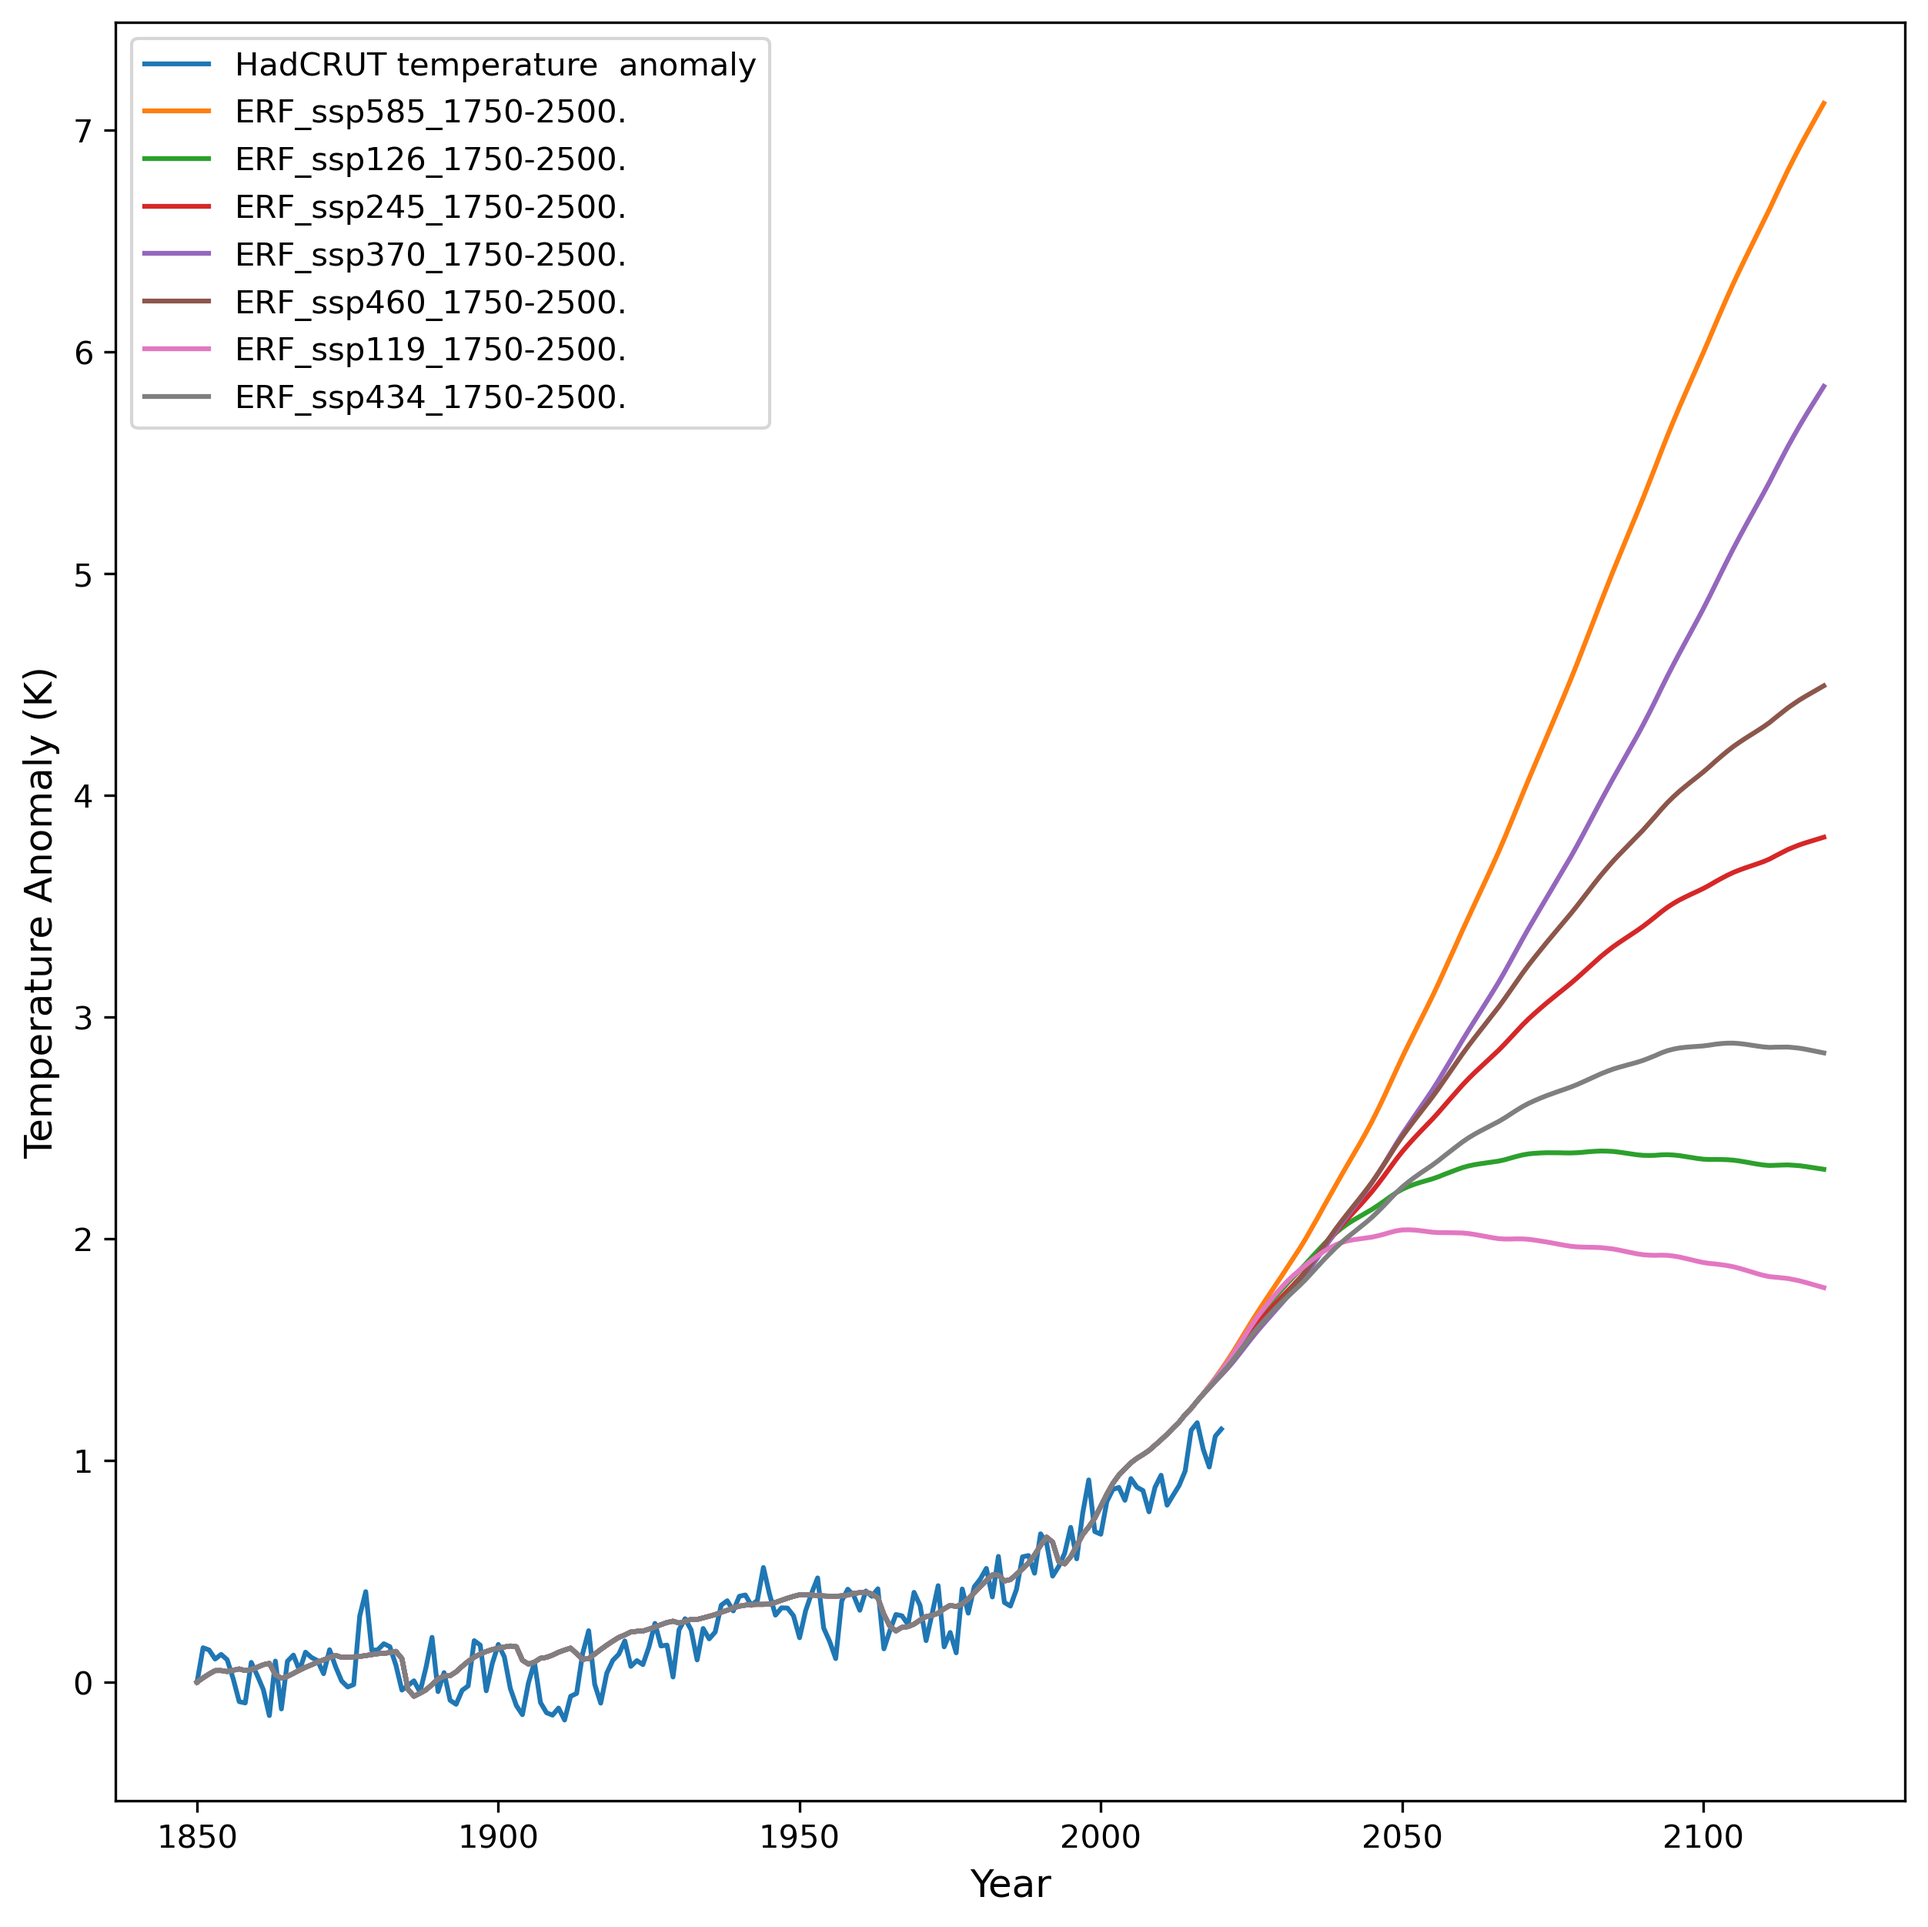
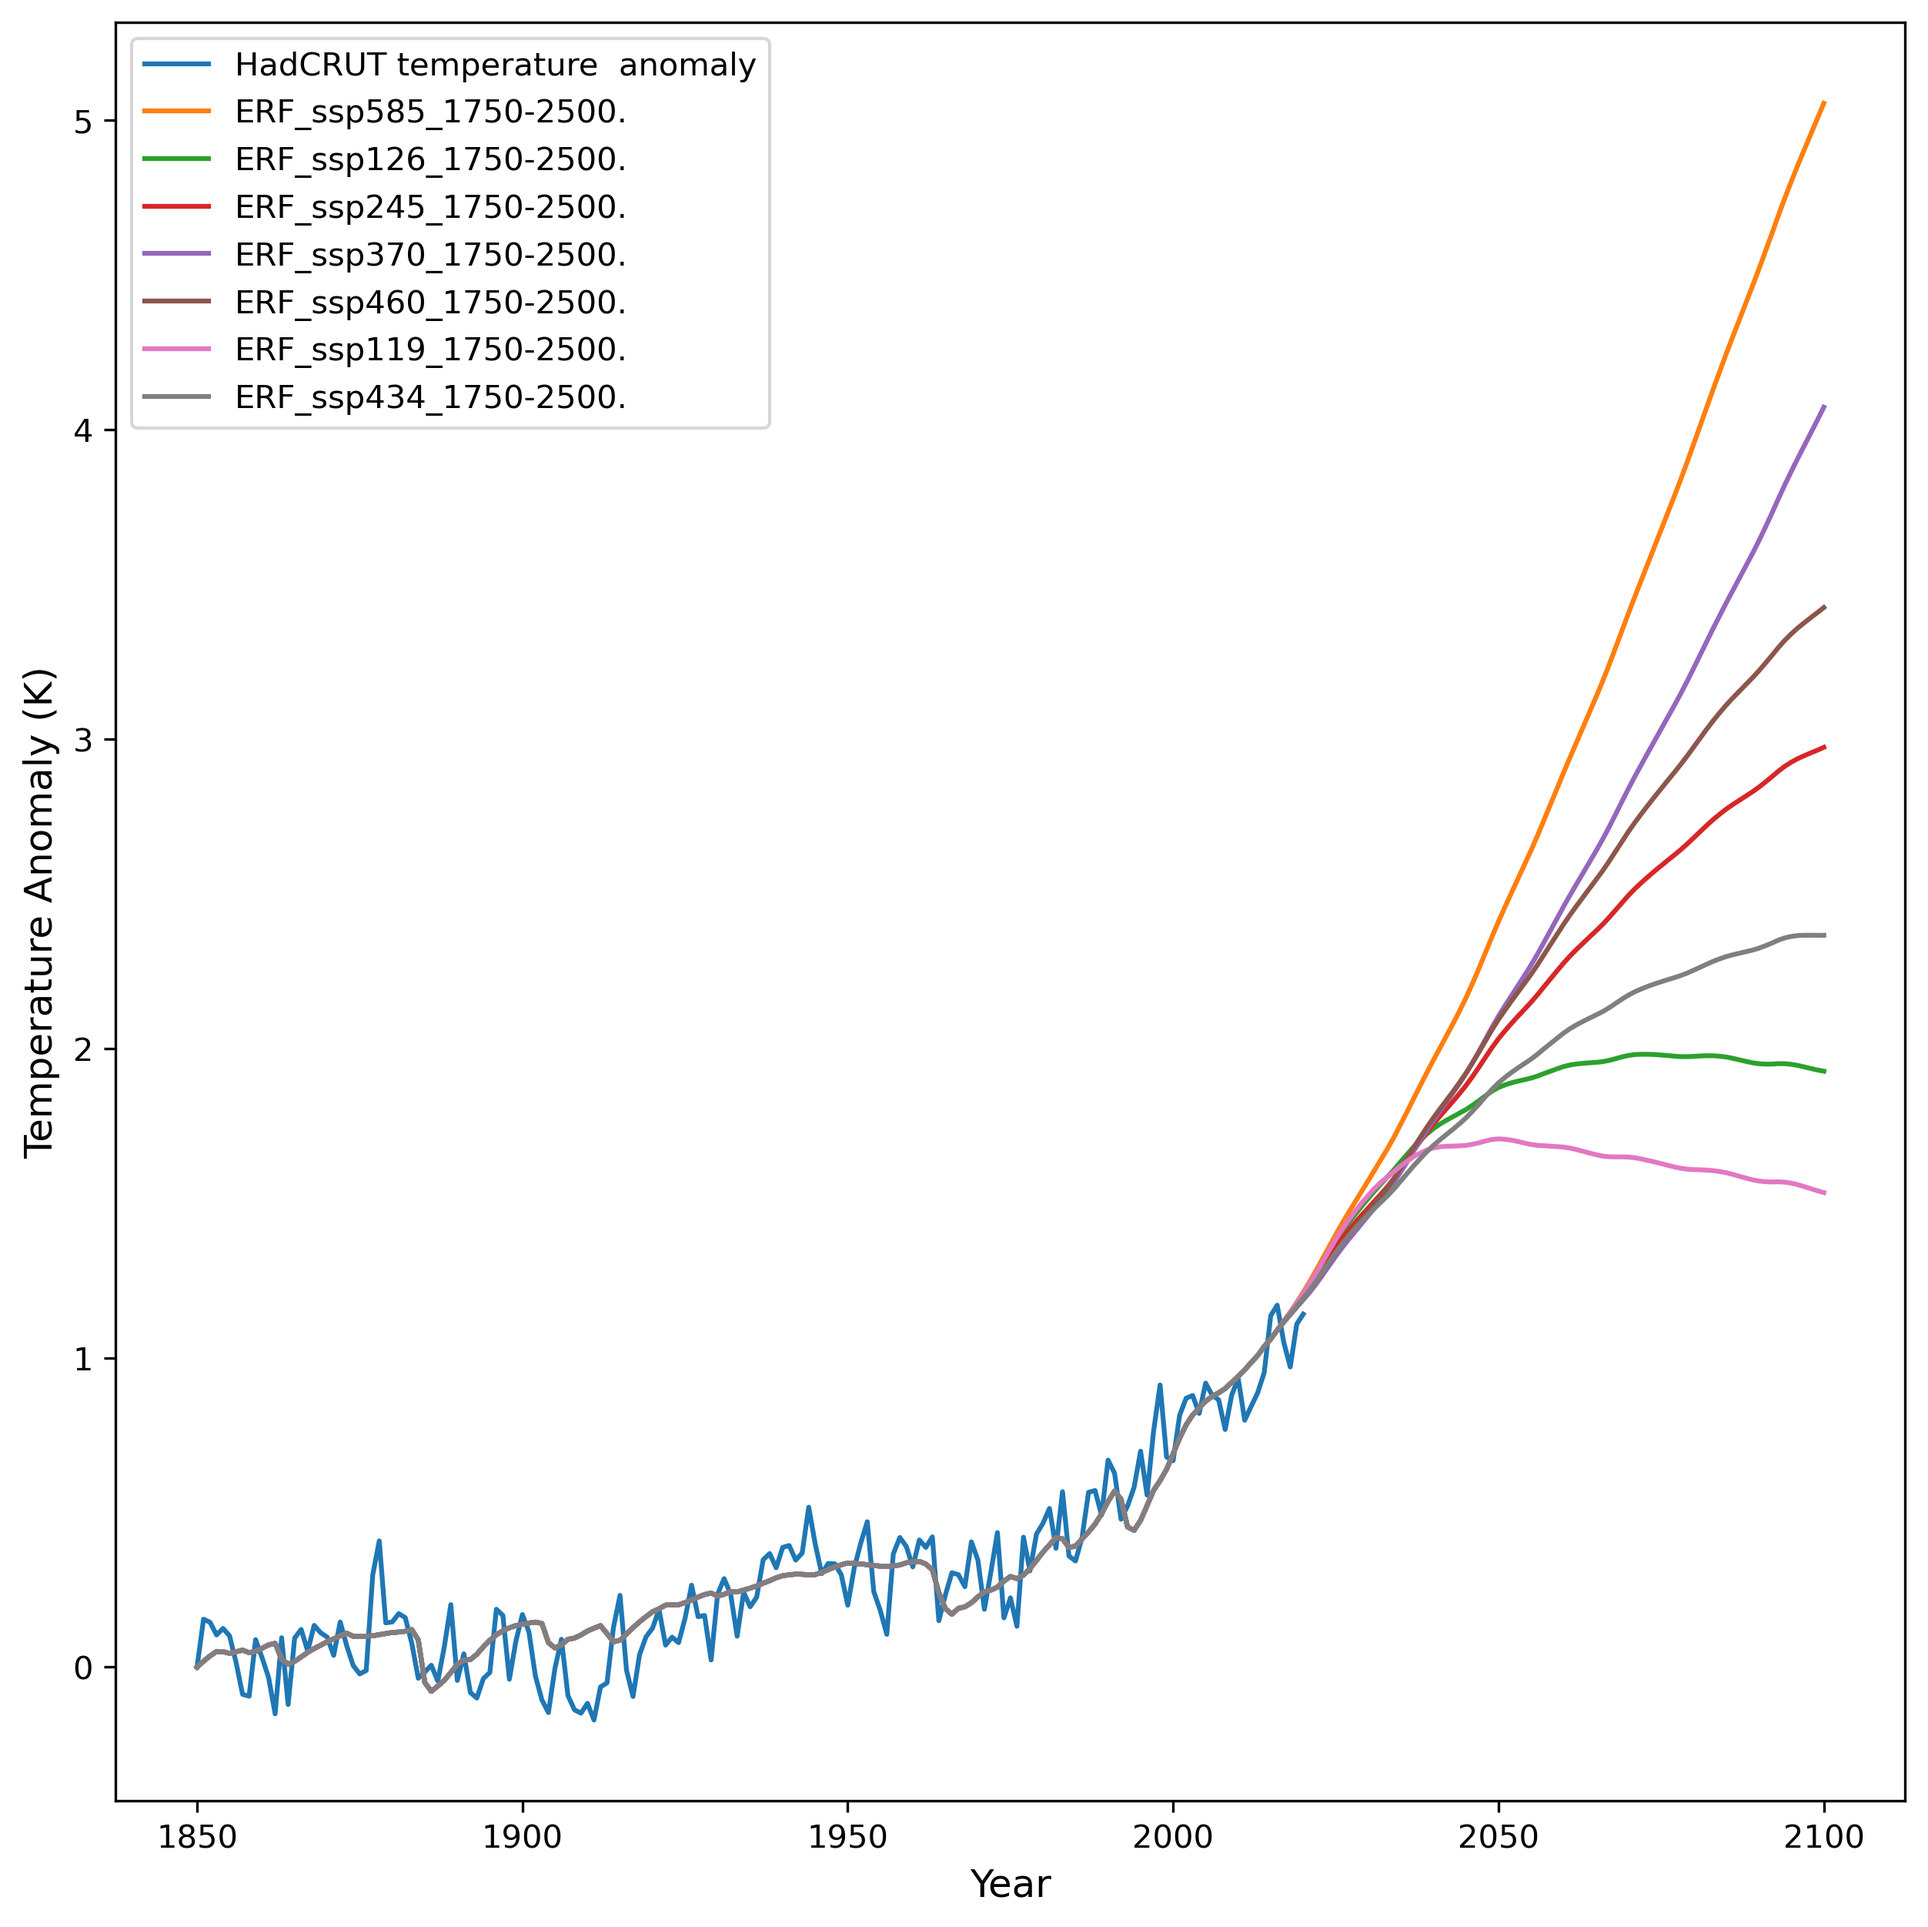
add opt alpha

diff --git a/experiments.py b/experiments.py
@@ -40,14 +40,14 @@ def load_forcing_data(filename):
     ERF_data = pd.read_csv(filename)
     ERF_data = ERF_data.set_index('year')
     ERF = np.array(ERF_data.loc[1850:2020]['total']) * FORCING_SENSITIVITY
-    ERF_fut = np.array(ERF_data.loc[1850:2120]['total'] * FORCING_SENSITIVITY)
+    ERF_fut = np.array(ERF_data.loc[1850:2100]['total'] * FORCING_SENSITIVITY)
     return ERF, ERF_fut
 
 def main():
     # array for time, in years and seconds
     t = np.array(range(0,171), dtype='int64')
     years = t + 1850
-    t_fut = np.array(range(0,271), dtype='int64')
+    t_fut = np.array(range(0,251), dtype='int64')
     years_fut = t_fut + 1850
     
 
@@ -61,6 +61,8 @@ def main():
     model_data_used = load_data(data_path)
     temp_anom = calc_anomaly(model_data_used, num_years=171)
     
+    opt_alpha_val = model.opt_alpha(temp_anom)
+
     ## initialise_plot
     fig, ax = plt.subplots(1, figsize=(10,10))
     fig, ax = plot_model(years, temp_anom, label='HadCRUT temperature  anomaly', fig=fig, ax=ax)
@@ -69,8 +71,7 @@ def main():
     for scen_file in os.listdir(path_to_ssp_forcings):
         forcing_scenario_path = os.path.join(path_to_ssp_forcings, scen_file)
         ERF, ERF_fut = load_forcing_data(forcing_scenario_path)
-        model.upper_ocean_temp(alpha=1, F=ERF_fut)
-        projection = model.upper_ocean_temp(alpha=1, F=ERF_fut)
+        projection = model.upper_ocean_temp(t=len(ERF_fut), alpha=opt_alpha_val, F=ERF_fut)
 
         ## plot and save ouputs
         fig, ax = plot_model(years_fut, projection, label='%s' % (scen_file[:-3]), fig=fig, ax=ax)

diff --git a/scripts/model.py b/scripts/model.py
@@ -1,11 +1,13 @@
 import numpy as np
 import pandas as pd
 import os
+import lmfit
+
 # set constants
-data_dir = '../data'
-ERF_data = pd.read_csv(os.path.join(data_dir, 'ERF_ssp585_1750-2500.csv'))
+data_dir = 'data'
+ERF_data = pd.read_csv(os.path.join(data_dir, 'SSPs/','ERF_ssp585_1750-2500.csv'))
 ERF_data = ERF_data.set_index('year')
-ERF = ERF_data.loc[1850:2020]['total']
+ERF = np.array(ERF_data.loc[1850:2020]['total'])
 
 rho = 1000 # density of water kgm-3
 c_p = 4218 # specific heat of water Jkg-1K-1
@@ -45,4 +47,4 @@ def opt_alpha(temp_anom, t=171):
     params = mod.make_params(alpha=1)
     fit_result = mod.fit(temp_anom, params, t=t)
     
-    return result.params['alpha'].value
+    return fit_result.params['alpha'].value
